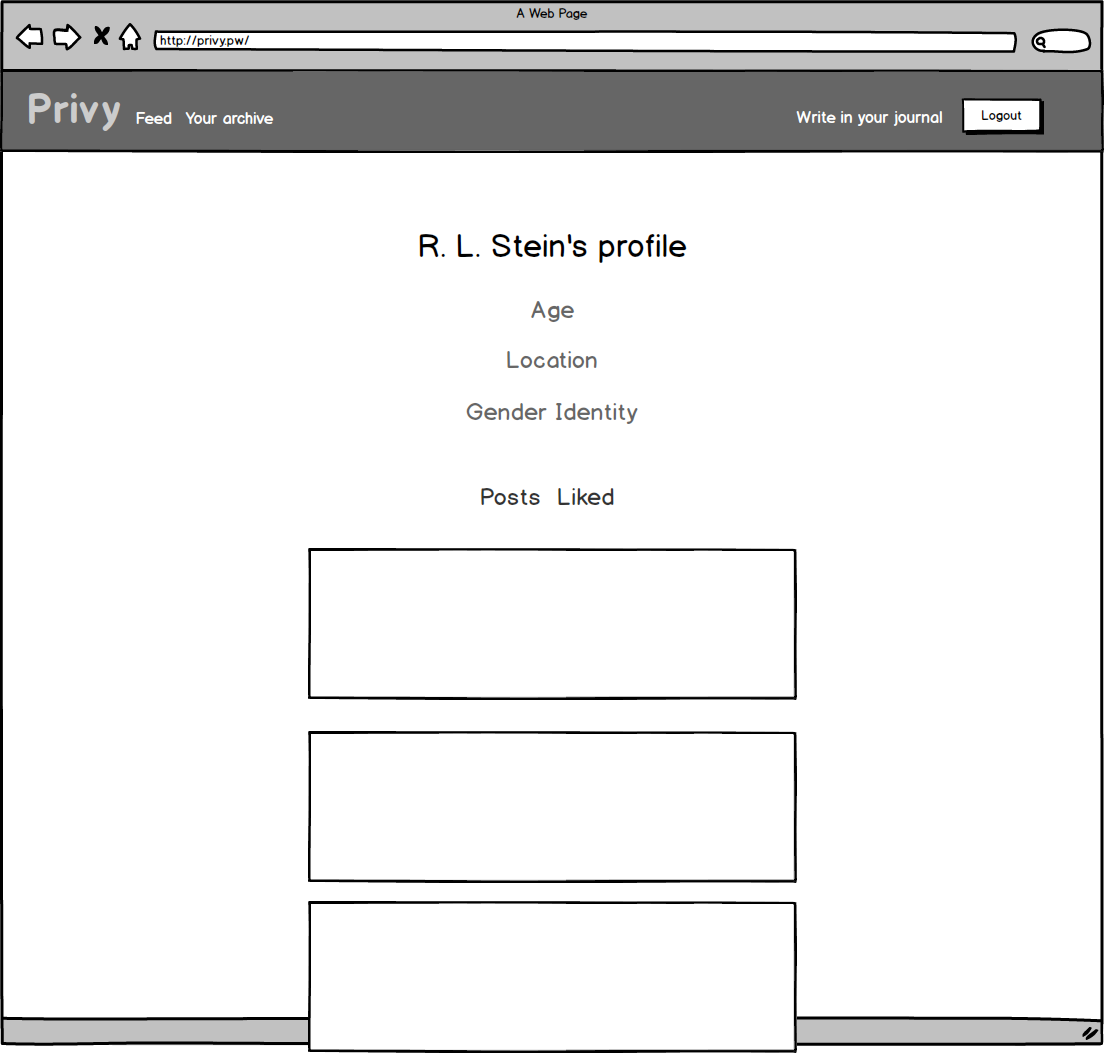
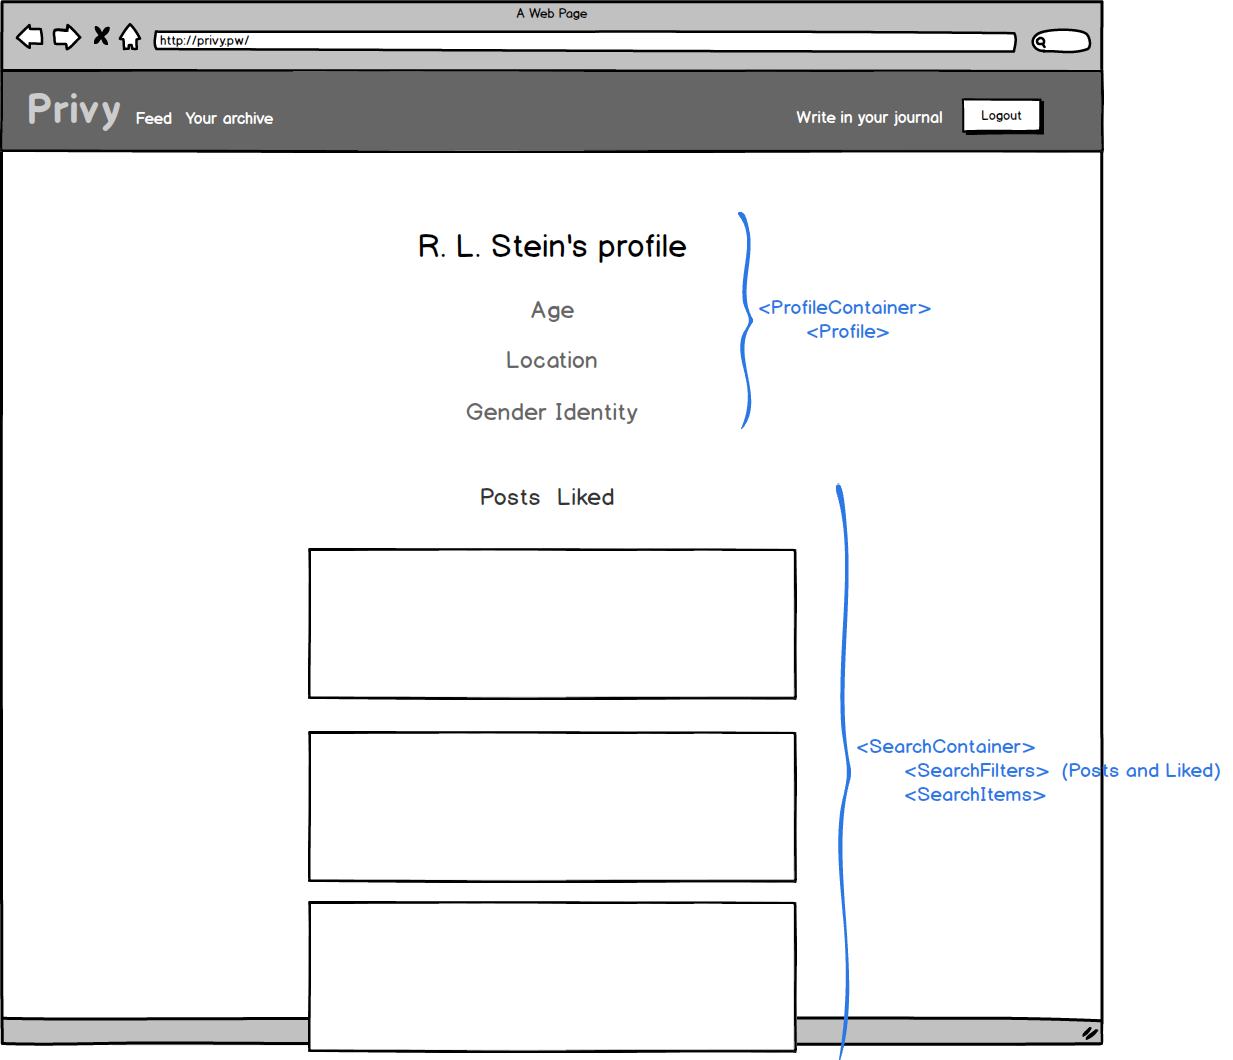
Udpdate wireframes to label React components

diff --git a/docs/sample_state.md b/docs/sample_state.md
@@ -1,4 +1,4 @@
-```{
+```json{
   currentUser: {
     id: 1,
     pseudonym: "sample_name",
